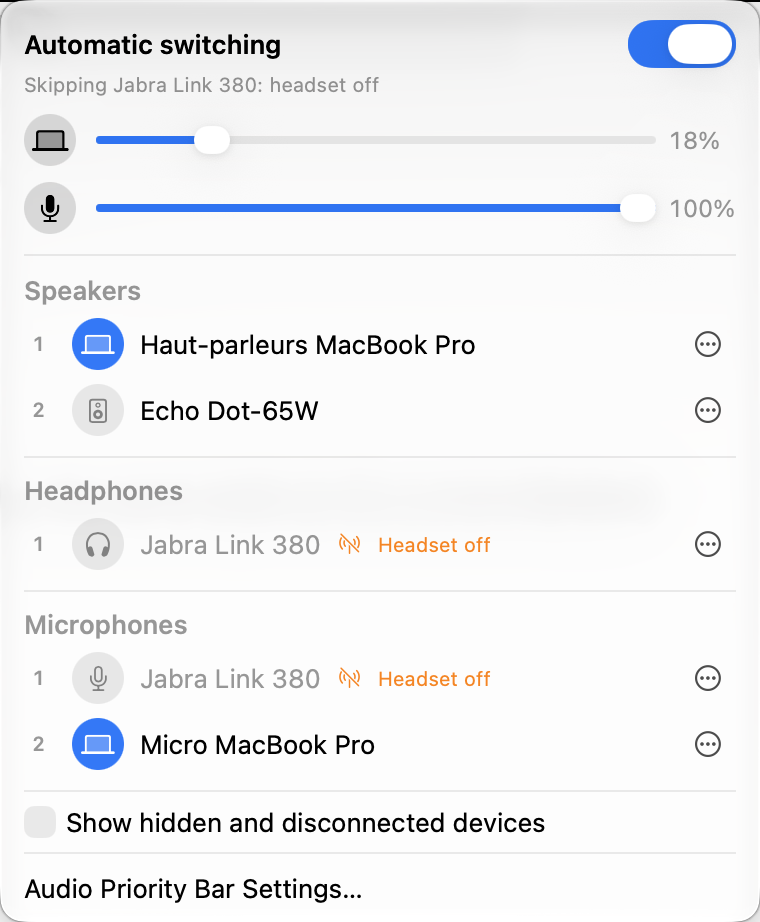
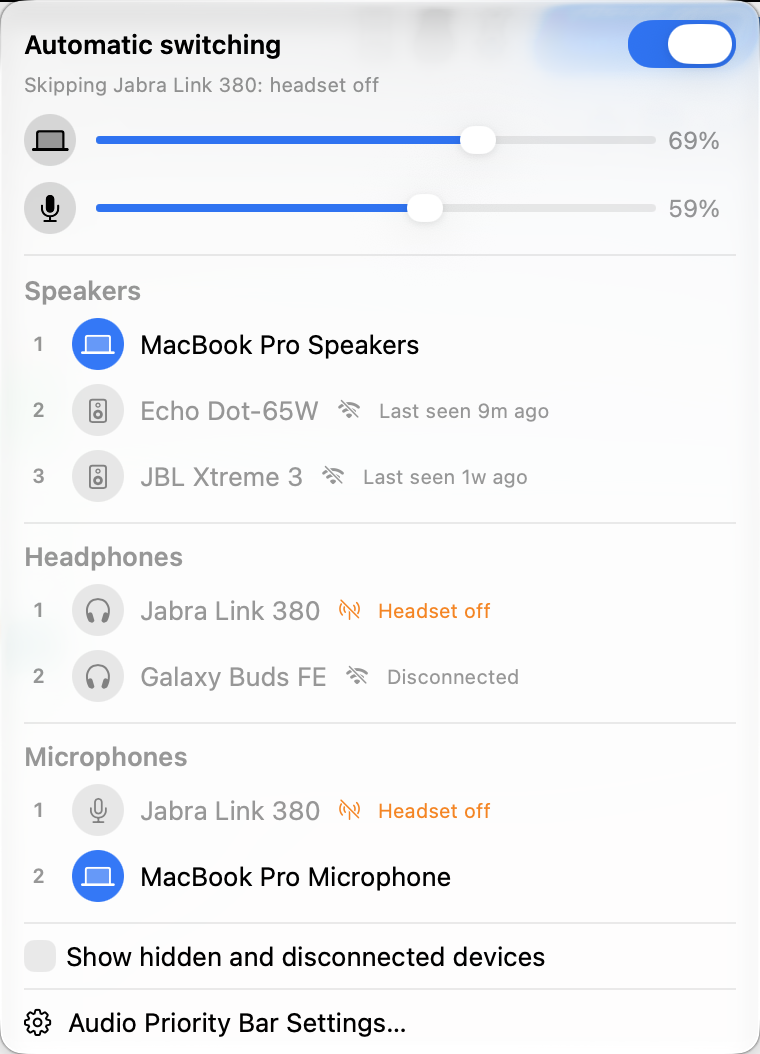
feat: prepare Audio Priority Bar 2.9.0
Minor rather than patch, because it adds connecting and disconnecting
Bluetooth speakers and headphones from the panel, alongside the Jabra
battery and hover preview fixes.

The README screenshots now show the panel in English, with paired
Bluetooth devices dimmed while they are off, and GitHub shows the light
or dark one to match the reader's theme.

diff --git a/.github/release-notes/v2.9.0.md b/.github/release-notes/v2.9.0.md
@@ -1,0 +1,33 @@
+Audio Priority Bar 2.9.0 connects and disconnects Bluetooth speakers and headphones from the panel, and keeps the panel steady while its lists change. Coming from 2.8.0, the update installs in place, and your existing priorities and overrides are kept.
+
+## Bluetooth
+
+- Paired Bluetooth speakers and headphones stay listed at their rank while they are off, dimmed. Click one to connect it and switch to it, or hover it and click **Connect** to connect it and let your priorities decide ([#39](https://github.com/camguillory/Audio-Priority-Bar/pull/39)).
+- A Bluetooth device that is connected but not in use shows **Connected**. Hover it and click **Disconnect**, or use its actions menu, to release it ([#39](https://github.com/camguillory/Audio-Priority-Bar/pull/39)).
+- Listing paired devices needs no permission. The first connect or disconnect asks for Bluetooth permission.
+
+## Panel
+
+- The panel keeps its top edge still while its lists grow or shrink, so rows no longer slide under the pointer when you show hidden and disconnected devices ([#39](https://github.com/camguillory/Audio-Priority-Bar/pull/39)).
+- A disconnected device reads **Last seen 1w ago**, and statuses use the full width of a row until you hover it ([#39](https://github.com/camguillory/Audio-Priority-Bar/pull/39)).
+
+## Fixes
+
+- A Jabra headset's battery appears within seconds of turning the headset on, instead of up to a minute later ([#37](https://github.com/camguillory/Audio-Priority-Bar/pull/37)).
+- The hover preview no longer opens for a menu bar icon tucked behind the menu bar's hidden items arrow, or from the top edge of the screen. Settings › Menu Bar can allow Accessibility so the preview checks that the icon itself is under the pointer ([#38](https://github.com/camguillory/Audio-Priority-Bar/pull/38)).
+
+## Install
+
+```bash
+brew install --cask camguillory/tap/audio-priority-bar
+```
+
+Alternatively, download `AudioPriorityBar.zip` and `AudioPriorityBar.zip.sha256` below into the same folder, verify the archive, and move the app to `/Applications`:
+
+```bash
+shasum -a 256 -c AudioPriorityBar.zip.sha256
+```
+
+The release is universal for Apple silicon and Intel. It is signed with the project's own certificate, not an Apple Developer ID, and not notarized. If macOS blocks the first launch, open **System Settings > Privacy & Security** and click **Open Anyway**.
+
+Connecting a Bluetooth device from the panel asks for Bluetooth permission, and Accessibility is optional, for the hover preview. Jabra Link monitoring may request Input Monitoring permission. Link 380 is hardware-verified. Link 390 is expected to work through the same capability check but remains unverified on hardware, and monitoring fails open when the link state cannot be read.

diff --git a/README.md b/README.md
@@ -23,8 +23,10 @@
 </p>
 
 <p align="center">
-  <img src="screenshot-light.png" width="49%" alt="Audio Priority Bar light panel showing automatic switching, output and microphone levels with mute buttons, and three device priority lists">
-  <img src="screenshot-dark.png" width="49%" alt="Audio Priority Bar dark panel showing automatic switching, output and microphone levels with mute buttons, and three device priority lists">
+  <picture>
+    <source media="(prefers-color-scheme: dark)" srcset="screenshot-dark.png">
+    <img src="screenshot-light.png" width="380" alt="Audio Priority Bar panel showing automatic switching, output and microphone levels, and the Speakers, Headphones and Microphones priority lists, with paired Bluetooth devices dimmed while they are off">
+  </picture>
 </p>
 
 ## Why
